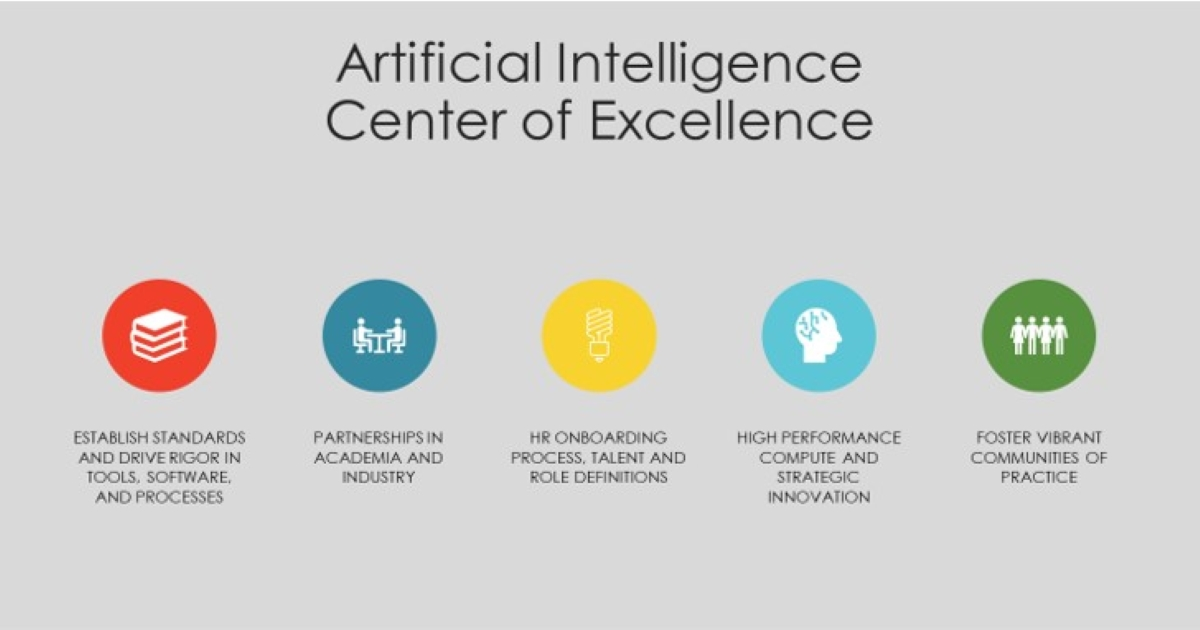
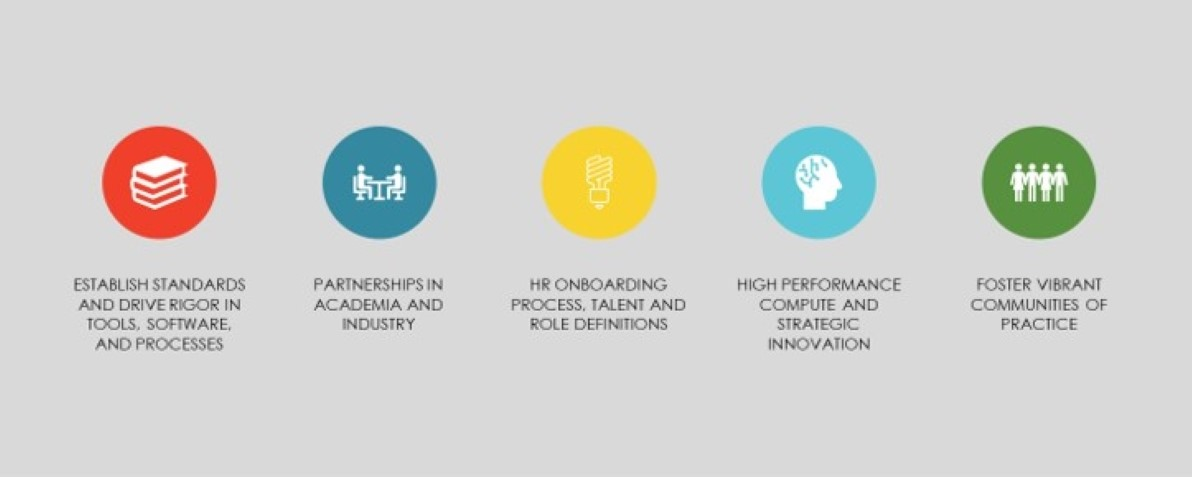
thinner homepage image

diff --git a/content/en/post/_index.md b/content/en/post/_index.md
@@ -2,4 +2,3 @@
 title: "Articles"
 date: 2017-03-02T12:00:00-05:00
 ---
-Articles are paginated with only three posts here for example. You can set the number of entries to show on this page with the "pagination" setting in the config file.

diff --git a/content/en/_index.md b/content/en/_index.md
@@ -1,7 +1,7 @@
 ---
-title: "Ananke: a Hugo Theme"
+title: "Artificial Intelligence"
 featured_image: '/images/AICoE.jpg'
-description: "What will this look like?"
+description: "Center of Excellence"
 omit_header_text: true
 ---
 
